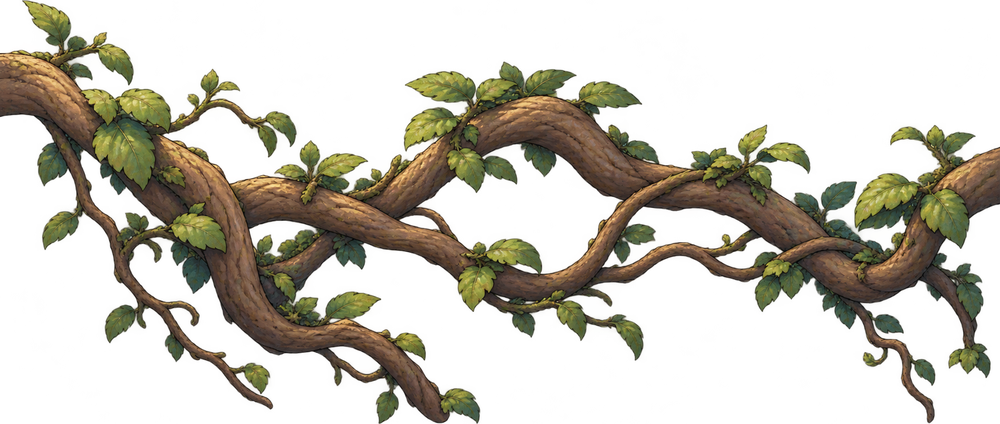
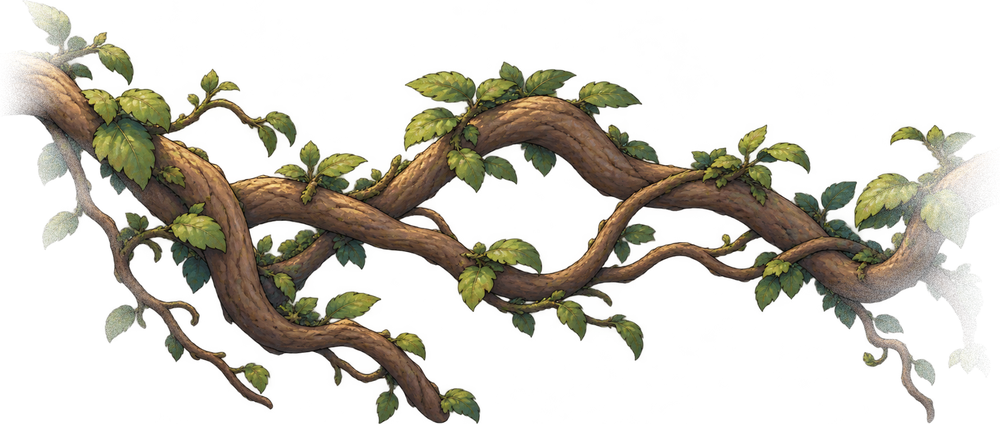
森の中景：絵の端で木や枝がぶつ切りに見えないよう、端を溶かしてつなげる
光の差す隙間（mid_light_gap）と枝（mid_branch_01）は元の絵の左右の端まで描かれていて、
置くと端で木や枝がまっすぐ切れて見えていた。書き出し時に端を葉の形にむらのある透明へ
なじませ、中景の並びを増やして茂みと重ね、途切れずにつながって見えるようにした。

Claude-Session: https://claude.ai/code/session_015t2GEDWSycmWF7Yq5RcKvR

Changed region(s): [[0.837, 0.3066, 1.0, 0.9811], [0.0, 0.0, 0.155, 0.5825], [0.093, 0.6439, 0.186, 0.8278]]

diff --git a/tools/build_forest_art.py b/tools/build_forest_art.py
@@ -5,6 +5,8 @@
 - 透明な余白を切り落とし、ゲームの中で表示する大きさの 2 倍に縮める（ゲームでは 0.5 倍で表示）。
 - 籠の奥（back）と手前（front）は、重ねたときにずれないよう同じ枠で切る。
 - 地面の縁（edge_top）は横につないでも継ぎ目が目立たないよう、両端を混ぜる。
+- 中景で絵の端まで描かれているもの（光の差す隙間・枝）は、端で木や枝がぶつ切りに見えないよう、
+  端に向かって葉の形にむらのある透明にして、まわりの絵に溶け込ませる。
 - 当たり判定の位置（枝の上面・籠の縁・葉の坂）は scripts/forest_art.gd に数値で書いてある。
   素材を描き直して形が大きく変わったら、そこも合わせる。
 
@@ -48,6 +50,8 @@ FILES = {
     # 運ぶ道具
     "leaf_ramp": ("t", "berry_leaf_ramp.png", 360, True),
 }
+# 端を溶かす中景（絵の端で木や枝が切れているもの）
+FEATHER = {"mid_light_gap": 0.24, "mid_branch_01": 0.14}
 # 同じ枠で切る組（奥・手前）
 PAIRS = {
     "basket": ("berry_basket_back.png", "berry_basket_front.png", 400),
@@ -78,6 +82,34 @@ def seamless_x(im, band=96):
     return Image.fromarray(np.clip(a, 0, 255).astype(np.uint8), im.mode)
 
 
+def feather_sides(im, frac, seed=1):
+    """左右の端で絵が切れているところを、端に向かって透明にする。
+    まっすぐな境目にならないよう、行ごとに幅をゆらし、細かいむらも混ぜる。"""
+    a = np.asarray(im).astype(np.float32)
+    h, w = a.shape[:2]
+    rng = np.random.default_rng(seed)
+    band = max(8, int(w * frac))
+    # 行ごとの幅のゆらぎ（なめらかな波）と、細かいむら
+    rows = np.arange(h)[:, None]
+    wobble = np.zeros((h, 1))
+    for k, amp in ((1, 0.35), (3, 0.2), (9, 0.1)):
+        wobble += amp * np.sin(rows / h * np.pi * 2 * k + rng.uniform(0, 6.3))
+    grain = rng.uniform(-0.12, 0.12, size=(h, w))
+    x = np.arange(w)[None, :].astype(np.float32)
+    alpha = a[:, :, 3] / 255.0
+    for side in ("left", "right"):
+        col = alpha[:, 0] if side == "left" else alpha[:, -1]
+        if (col > 0.15).mean() < 0.05:
+            continue  # この端は切れていない
+        d = x if side == "left" else (w - 1 - x)
+        t = d / (band * (1.0 + wobble)) + grain
+        t = np.clip(t, 0.0, 1.0)
+        t = t * t * (3 - 2 * t)
+        alpha = alpha * t
+    a[:, :, 3] = alpha * 255.0
+    return Image.fromarray(np.clip(a, 0, 255).astype(np.uint8), "RGBA")
+
+
 def main():
     if len(sys.argv) != 4:
         print(__doc__)
@@ -92,6 +124,8 @@ def main():
             im = im.crop(alpha_bbox(im))
         if name == "edge_top":
             im = seamless_x(im)
+        if name in FEATHER:
+            im = feather_sides(im, FEATHER[name])
         im = fit(im, limit)
         im.save(os.path.join(out, name + ".png"), optimize=True)
         print(name, im.size)
